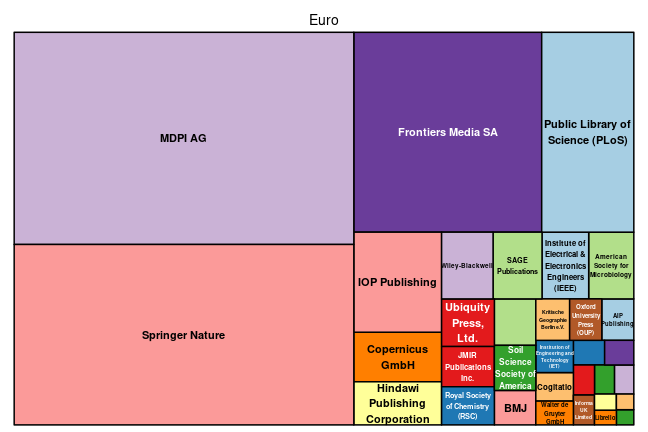
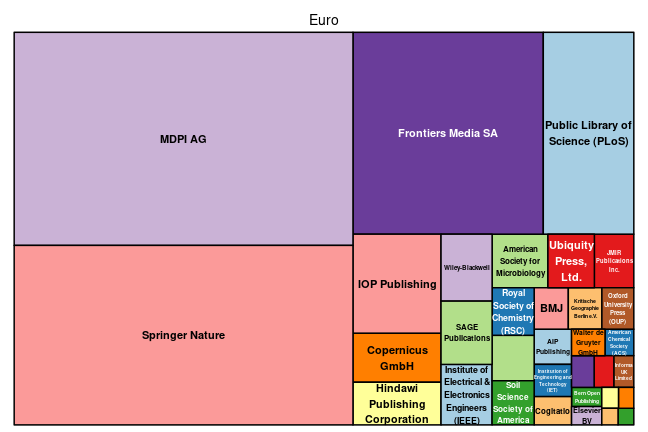
update: tu berlin apc data 2019

Changed region(s): [[0.0309, 0.0903, 0.9877, 0.9931], [0.6173, 0.3009, 0.7716, 0.331], [0.2469, 0.3009, 0.3395, 0.331]]

diff --git a/_posts/2020-02-19-tuberlin.md b/_posts/2020-02-19-tuberlin.md
@@ -22,15 +22,15 @@ Contact Person is [Michaela Voigt](mailto:openaccess@ub.tu-berlin.de).
 
 
 
-The new data set covers publication fees for 86 articles. Total expenditure amounts to 124 049€ and the average fee is 1 442€.
+The new data set covers publication fees for 88 articles. Total expenditure amounts to 125 875€ and the average fee is 1 430€.
 
 The following table shows the payments the TU Berlin has made to publishers in 2019.
 
 
 |                                                                         | Articles| Fees paid in EURO| Mean Fee paid|
 |:------------------------------------------------------------------------|--------:|-----------------:|-------------:|
-|MDPI AG                                                                  |       26|             30209|          1162|
-|Frontiers Media SA                                                       |       15|             22452|          1497|
+|MDPI AG                                                                  |       27|             30878|          1144|
+|Frontiers Media SA                                                       |       16|             23608|          1475|
 |Springer Nature                                                          |       15|             31571|          2105|
 |IOP Publishing                                                           |        3|              5426|          1809|
 |Public Library of Science (PLoS)                                         |        3|              5437|          1812|
